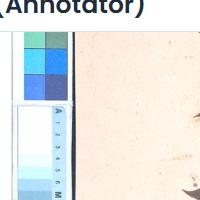
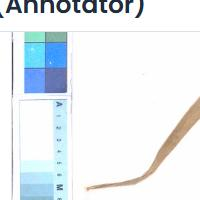
updated code

diff --git a/run.py b/run.py
@@ -20,7 +20,8 @@ from relogging import login_chatgpt, logout_chatgpt
 audio = AudioManager()
 
 
-
+failed_attempts=0
+max_failed_attempts=5
 audio.start_bgm("aud/wait.mp3")
 annotaion_in_correct_position=annotation_tab_in_position()
 print("Annotation Loaded")
@@ -80,11 +81,26 @@ for i in range(500):
         # Exit the loop
     result = submit_prompt()  
     if result==False:
-        audio.play_once(f"aud/error_short.mp3")
-        time.sleep(5)
-        tabs_reload()
-        close_download_popup()
-        continue
+        if failed_attempts>=max_failed_attempts:
+            print("Max failed attempts reached. Switching account.")
+            logout_chatgpt()
+            login_chatgpt(curr_acc)
+            curr_acc=curr_acc+1
+            if curr_acc>3:
+                curr_acc=1
+            # Redo 
+            close_download_popup()
+            switch_to_annotation_tab()
+            download_image()
+            drag_download()
+            gpt_stat=gpt_attachment_in_position()
+        else:
+            audio.play_once(f"aud/error_short.mp3")
+            time.sleep(5)
+            tabs_reload()
+            close_download_popup()
+            failed_attempts=failed_attempts+1
+            continue
 
     close_download_popup()
     res=submit_data()

diff --git a/gpt_tab.py b/gpt_tab.py
@@ -63,7 +63,7 @@ def refresh_gpt():
 def is_gpt_completed():
     region = (951, 84, 200, 40)
     sc1=pilot.screenshot(region=region)
-    max_waiting=2500
+    max_waiting=1500
     # wait for 60s to detect any changes
     for i in range(max_waiting):
         sc2=pilot.screenshot(region=region)
